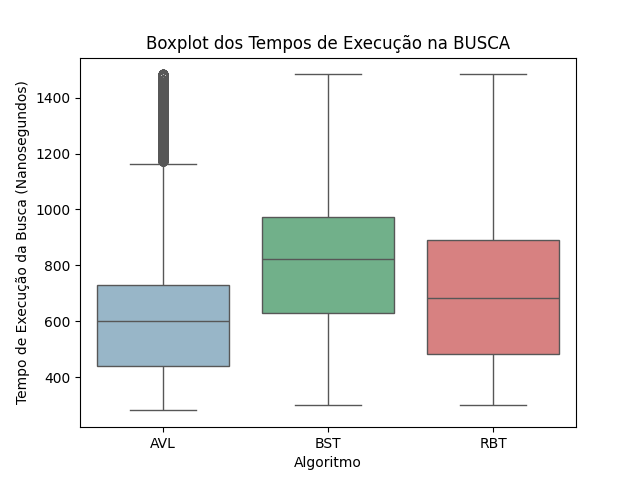
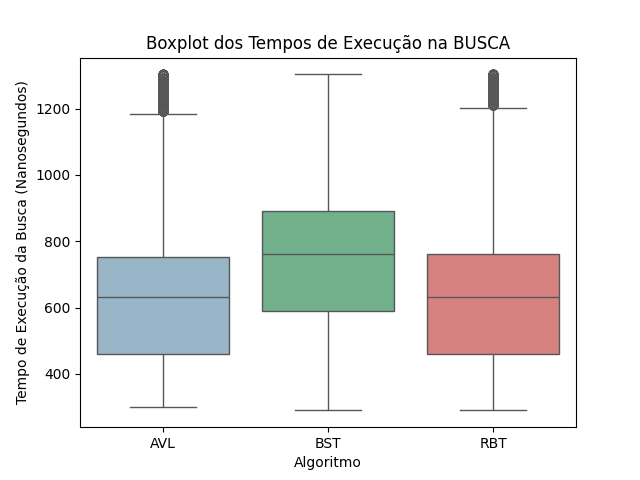
Correção de erro na contagem de palavras únicas e no tempo de execução da BST

diff --git a/src/utils/tree_utils.cpp b/src/utils/tree_utils.cpp
@@ -154,7 +154,7 @@ int countNodes(BinaryTree* tree, std::vector<std::string> *words)
         return -1;
     }
     Node *aux = tree->root;
-    int count = 1;
+    int count = 0;
     
     // usa countNodesAux para contar a quantidade de nós e armazenar a quantidade de palavras
     if (aux != nullptr)

diff --git a/src/main_bst.cpp b/src/main_bst.cpp
@@ -135,7 +135,7 @@ int main(int argc, char* argv[])
 
         SearchResult result;
         std::string toSearch;
-        long int sumtime = 0;
+        long long sumtime = 0;
         int sumComparisons = 0;
         for(int i = 0;i < uniqueWords;i++)
         {

diff --git a/src/main_avl.cpp b/src/main_avl.cpp
@@ -137,7 +137,7 @@ int main(int argc, char* argv[])
 
         SearchResult result;
         std::string toSearch;
-        long int sumTime = 0;
+        long long sumTime = 0;
         int sumComp = 0;
         for(int i = 0;i < uniqueWords;i++)
         {

diff --git a/src/main_rbt.cpp b/src/main_rbt.cpp
@@ -137,7 +137,7 @@ int main(int argc, char* argv[])
 
         SearchResult result;
         std::string toSearch;
-        long int sumTime = 0;
+        long long sumTime = 0;
         int sumComp = 0;
         for(int i = 0;i < uniqueWords;i++)
         {
